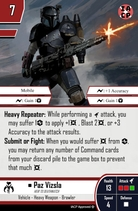
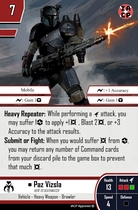
Corrected Paz Vizsla card defence die (was white).

diff --git a/CHANGELOG.md b/CHANGELOG.md
@@ -47,6 +47,7 @@ and this project adheres to [Semantic Versioning](https://semver.org/spec/v2.0.0
 - **PT filter button:** Toggle beside FFG/IACP/ALL to show only playtest cards; turns AUTO off when enabled and restores AUTO when disabled. Tooltip: "Isolate Playtesting Cards".
 
 ### Changed
+- Corrected Paz Vizsla card defence die (was white). (2026-09-26)
 - Updated Purge Commander Artwork (2026-09-23)
 - Updated final S11 & S12 cards. Moved: KX, Bo-Katan, AT-RT, Gauntlet B, YWNDM to continued testing. Deleted: Eye on the Prize (2026-09-22)
 - Added 3 new Pre-Built lists (2026-09-19)
